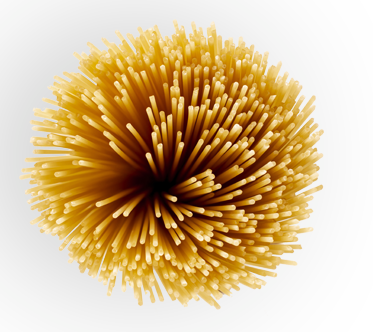
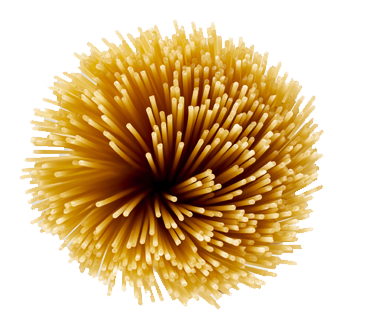
changes in margin of images

diff --git a/css/banner.css b/css/banner.css
@@ -36,6 +36,46 @@
   height: 100px;
 }
 
+.banner-image-right-pasta {
+  position: absolute;
+  margin-top: 85px;
+  margin-left: 380px;
+}
+
+.banner-image-left-pasta .img-fluid {
+  height: 100px;
+}
+
+.banner-image-bottom-left-spag {
+  position: absolute;
+  margin-top: 530px;
+  margin-left: -210px;
+}
+
+.banner-image-bottom-left-spag .img-fluid {
+  height: 215px;
+}
+
+.banner-image-bottom-center-tomato {
+  position: absolute;
+  margin-top: 530px;
+  margin-left: 500px;
+}
+
+.banner-image-bottom-center-tomato .img-fluid {
+  height: 100px;
+}
+
+.banner-image-bottom-right-leaf2 {
+  position: absolute;
+  margin-top: 180px;
+  margin-left: -25px;
+}
+
+.banner-image-bottom-right-leaf2 .img-fluid {
+  height: 100px;
+}
+
 /*
 font-family: 'Fredericka the Great', cursive;
 */

diff --git a/sections/banner.php b/sections/banner.php
@@ -4,6 +4,9 @@
         <div class="col-6 banner-image-left-leaf1">
           <img class="img-fluid" src="../italian-food-homepage/images/leaf1.png" alt="leaf1">
         </div>
+        <div class="col-6 banner-image-right-pasta">
+          <img class="img-fluid" src="../italian-food-homepage/images/pasta.png" alt="pasta">
+        </div>
         <div class="col-6 banner-text-left d-flex align-items-center">
           <div>
             <h1 class="header-heading-1 fw-light">Are You Hungry?</h1>
@@ -22,6 +25,15 @@
         </div>
         <div class="col-6 banner-image-right d-flex align-items-center">
           <img class="img-fluid" src="../italian-food-homepage/images/plate.png" alt="food4you">
+        </div>
+        <div class="col-6 banner-image-bottom-left-spag">
+          <img class="img-fluid" src="../italian-food-homepage/images/spag.png" alt="spag">
+        </div>
+        <div class="col-6 banner-image-bottom-center-tomato">
+          <img class="img-fluid" src="../italian-food-homepage/images/tomato.png" alt="tomato">
+        </div>
+        <div class="col-6 banner-image-bottom-right-leaf2">
+          <img class="img-fluid" src="../italian-food-homepage/images/leaf2.png" alt="leaf2">
         </div>
       </div>
     </div>
